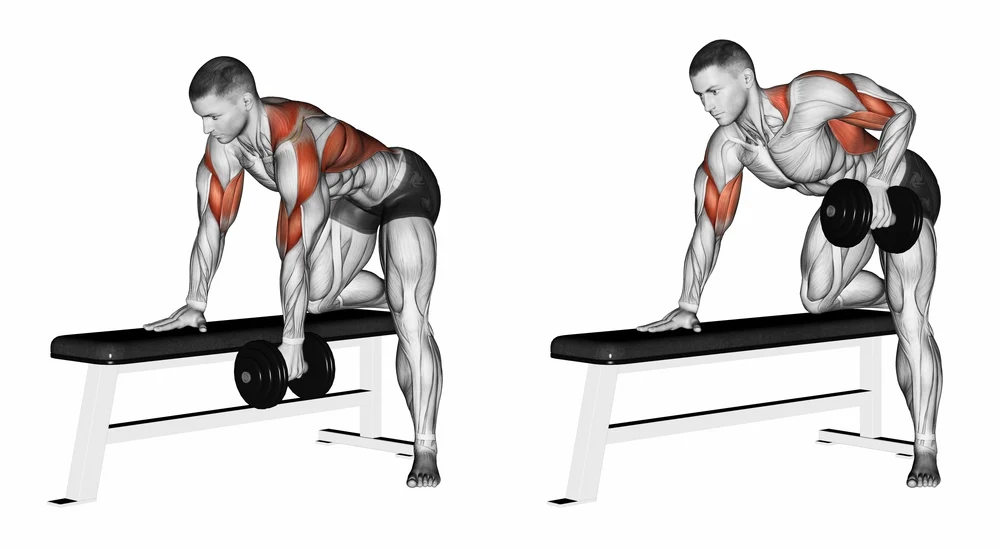
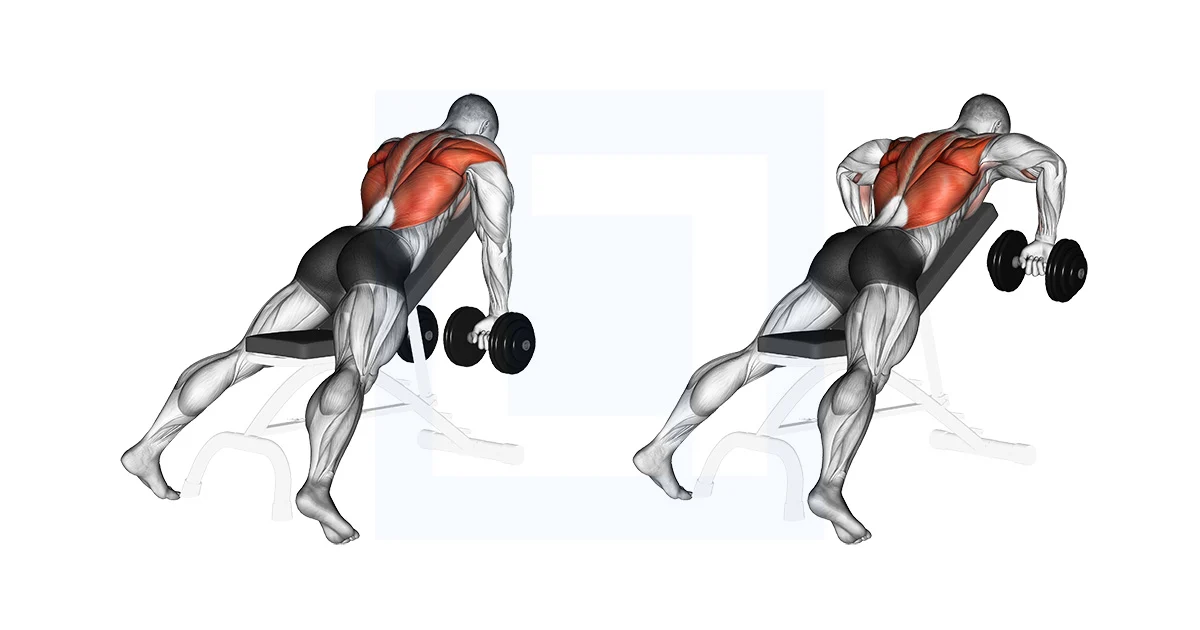
rename images and upload to cloudinary

diff --git a/UploadImages.py b/UploadImages.py
@@ -31,7 +31,7 @@ def upload_all():
             result = cloudinary.uploader.upload(
                 filepath,
                 public_id=public_id,
-                folder="moveon/workouts",
+                folder="moveon/Final_Images",
                 overwrite=True,
                 resource_type="image",
                 format="webp"   # 👈 مهم